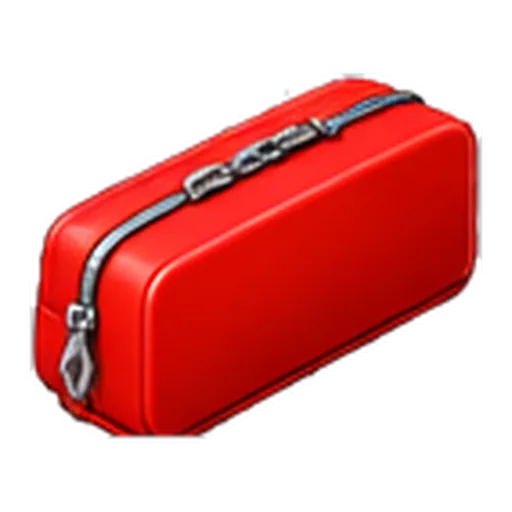
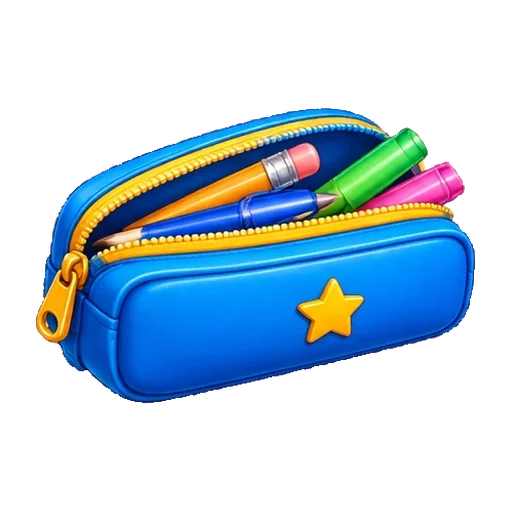
Картинки словника: заміни видно одразу; новий пенал
Картинки img/en/ адмінка замінює під тією самою назвою, а браузер
тримав старі копії до доби (Cache-Control max-age=86400 і «спершу з
кешу» в sw.js). Тепер для img/en/:
- nginx: Cache-Control: no-cache — браузер щоразу звіряє з сервером
  (незмінна картинка → 304 без завантаження);
- sw.js: мережа з cache:'no-cache', кеш — лише без інтернету.
Інші картинки, звуки й шрифти — як і раніше, одразу з кешу.

pencil box: та сама картинка, що й pencil case (новий синій пенал).

Claude-Session: https://claude.ai/code/session_01TZHfyKrr9XmBY9Nt9iJAKL

diff --git a/sw.js b/sw.js
@@ -172,15 +172,21 @@ async function pageStrategy(event){
    довантажується у фоні (наступного разу вже буде вона). Раніше й вони
    чекали мережу до 4 с, і сайт із кешем вантажився так само повільно. */
 const MEDIA_RE = /\.(?:png|jpe?g|webp|gif|svg|ico|mp3|wav|ogg|woff2?)$/i;
+/* Картинки словника (img/en/) адмінка замінює під тією самою назвою —
+   їх завжди звіряємо з сервером (cache:'no-cache' → 304, якщо не мінялись),
+   інакше нова картинка з'являлась би лише з наступного разу. */
+const FRESH_RE = /\/img\/en\//;
 async function localAssetStrategy(event){
   const req = event.request;
   const cache = await caches.open(CACHE);
   const hit = await cache.match(req) || (await cache.match(req, { ignoreSearch: true }));
-  const net = fetch(req).then(res => {
+  const path = new URL(req.url).pathname;
+  const fresh = FRESH_RE.test(path);
+  const net = fetch(req, fresh ? { cache: 'no-cache' } : undefined).then(res => {
     if(res && res.ok) cache.put(req, res.clone());
     return res;
   });
-  if(hit && MEDIA_RE.test(new URL(req.url).pathname)){
+  if(hit && !fresh && MEDIA_RE.test(path)){
     event.waitUntil(net.catch(() => null));
     return hit;
   }
